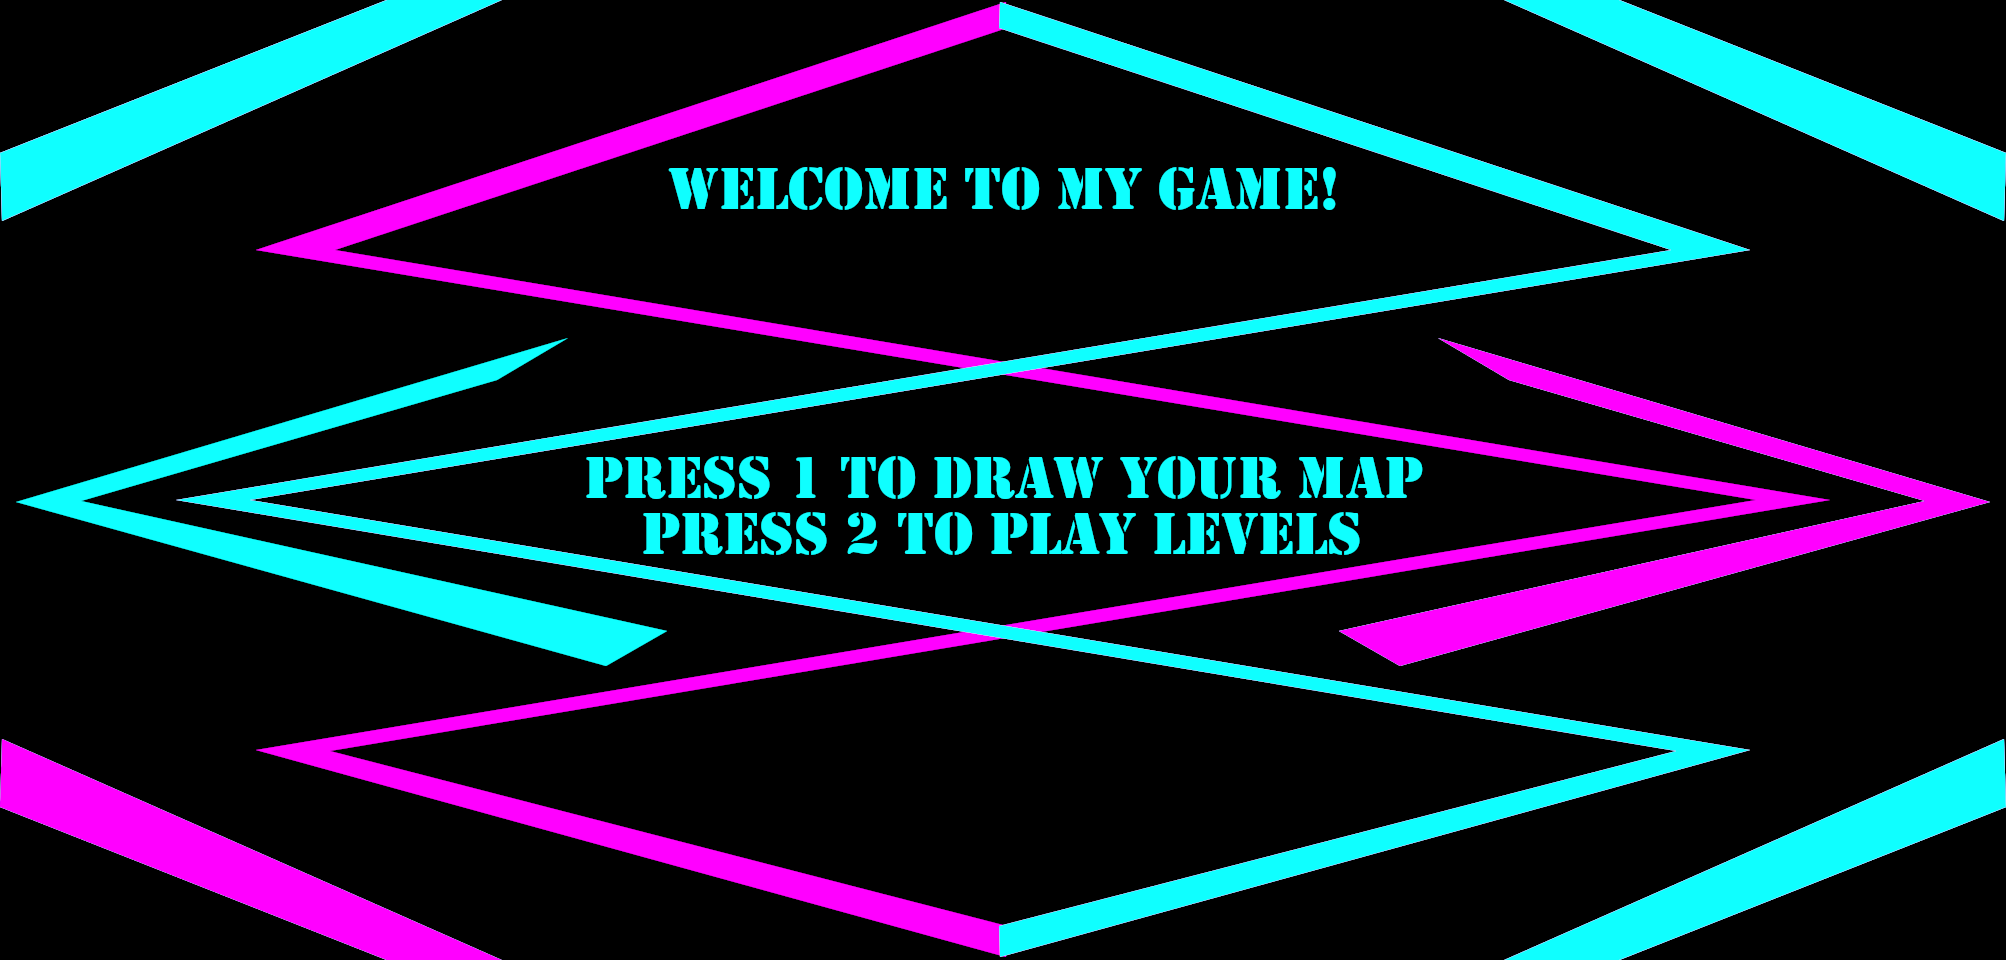
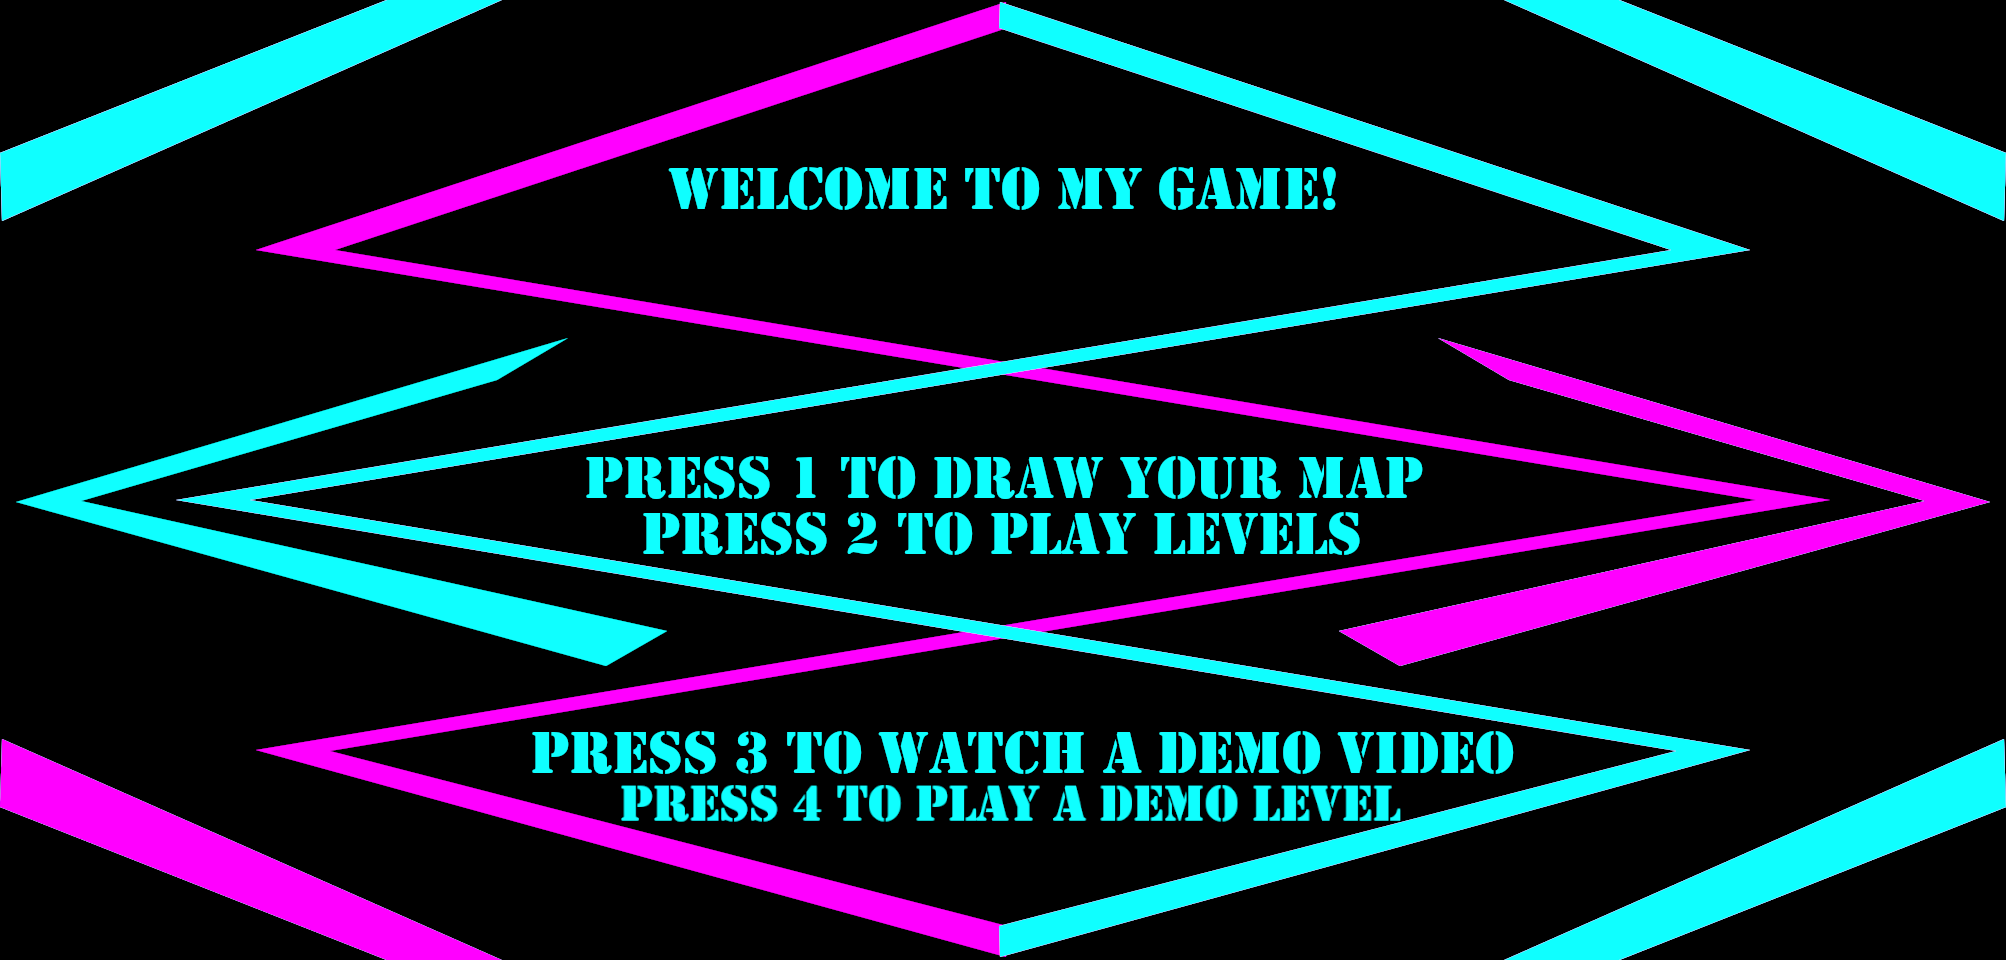
demo level added and intro screen updated

Changed region(s): [[0.2473, 0.75, 0.7727, 0.875]]

diff --git a/Project/Initial Idea.py b/Project/Initial Idea.py
@@ -634,6 +634,10 @@ while my_game == True:
             demo_mapping = True
             own_level = True
         #End If
+        if  keys[pygame.K_4]:
+            map = level1
+            intro = False
+            mapping = True
         # -- Game logic goes after this comment
         # -- Screen background is BLACK
         screen.fill(BLACK)
